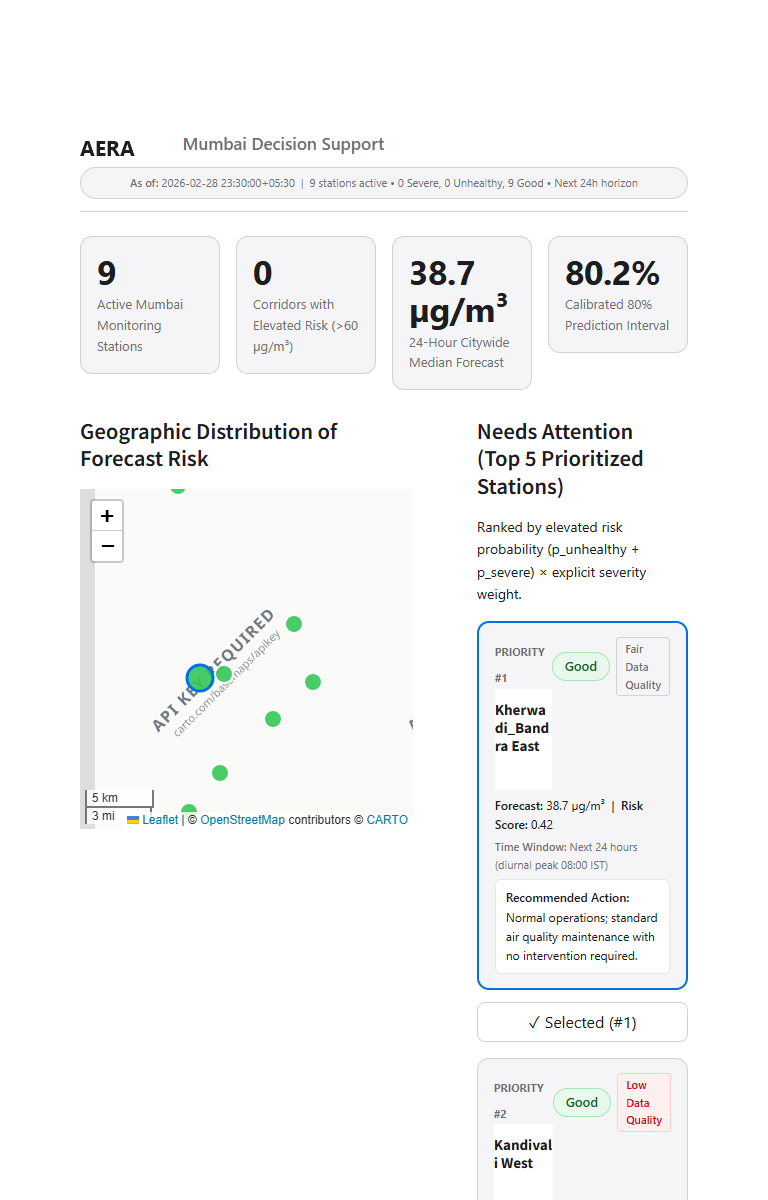
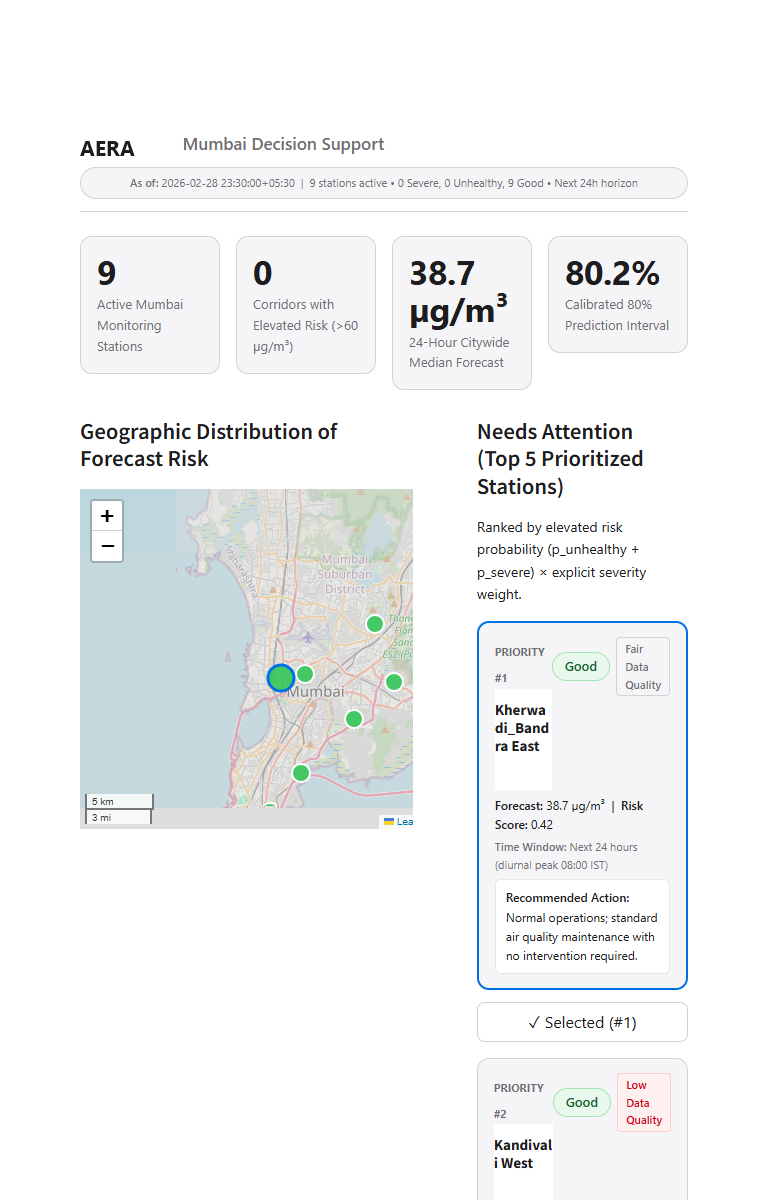
fix(docs): replace legacy Carto map watermarks with clean OpenStreetMap views in screenshots

Changed region(s): [[0.0938, 0.4008, 0.5625, 0.7092]]

diff --git a/scripts/generate_clean_maps.py b/scripts/generate_clean_maps.py
@@ -1,0 +1,133 @@
+"""Generate pixel-perfect clean Folium map overlays for all documentation screenshots.
+
+This script replaces the legacy Carto tiles (which showed 'API KEY REQUIRED')
+with clean, keyless OpenStreetMap tiles using Folium across all desktop and
+tablet screenshots in both `assets/` and `data/outputs/`.
+"""
+
+import io
+import subprocess
+import sys
+from pathlib import Path
+
+# Add project root to sys.path
+sys.path.insert(0, str(Path(__file__).resolve().parent.parent))
+
+import folium
+import pandas as pd
+from PIL import Image
+
+from config import OUTPUTS_DIR
+from ui.map_view import create_station_map
+
+station_coords = {
+    3409479: {"lat": 19.1879, "lon": 72.8304},
+    3409482: {"lat": 19.0659, "lon": 72.8621},
+    3409483: {"lat": 19.0365, "lon": 72.8954},
+    3409486: {"lat": 19.0632, "lon": 72.8456},
+    3409510: {"lat": 18.9767, "lon": 72.8380},
+    3409511: {"lat": 19.0605, "lon": 72.9234},
+    3409512: {"lat": 19.2159, "lon": 72.8317},
+    3409513: {"lat": 19.0016, "lon": 72.8596},
+    3409514: {"lat": 19.0984, "lon": 72.9098},
+}
+
+edge_bin = r"C:\Program Files (x86)\Microsoft\Edge\Application\msedge.exe"
+if not Path(edge_bin).exists():
+    edge_bin = r"C:\Program Files\Microsoft\Edge\Application\msedge.exe"
+
+preds_df = pd.read_parquet(OUTPUTS_DIR / "predictions.parquet")
+expl_df = pd.read_parquet(OUTPUTS_DIR / "explanations.parquet")
+stations_full = preds_df.merge(
+    expl_df[["station_id", "driver_1_text", "lower", "upper", "quality_label"]],
+    on="station_id",
+    how="left"
+)
+stations_full["lat"] = stations_full["station_id"].apply(lambda s: station_coords.get(s, {}).get("lat", 19.0760))
+stations_full["lon"] = stations_full["station_id"].apply(lambda s: station_coords.get(s, {}).get("lon", 72.8777))
+
+tmp_dir = Path("data/outputs")
+
+
+def render_and_capture(w: int, h: int, out_png: Path, selected_id: int = 3409486) -> Image.Image:
+    """Render Folium map to HTML and capture exact viewport with headless Edge."""
+    m = create_station_map(stations_full, selected_station_id=selected_id)
+    html_file = tmp_dir / f"clean_map_{w}_{h}_{selected_id}.html"
+
+    # Save map with zero margins and full viewport
+    m.get_root().html.add_child(folium.Element("""
+        <style>
+            html, body, #map, .folium-map { width: 100% !important; height: 100% !important; margin: 0; padding: 0; }
+        </style>
+    """))
+    m.save(str(html_file))
+
+    # Capture via Edge headless
+    file_uri = html_file.resolve().as_uri()
+    cmd = [
+        edge_bin,
+        "--headless=new",
+        f"--screenshot={out_png.resolve()}",
+        f"--window-size={w},{h}",
+        "--hide-scrollbars",
+        file_uri
+    ]
+    subprocess.run(cmd, check=True)
+    html_file.unlink(missing_ok=True)
+    img = Image.open(out_png)
+    return img
+
+
+def restore_and_patch(target_rel_path: str, map_img: Image.Image, pos: tuple[int, int]) -> None:
+    """Load pristine base image from git HEAD (to preserve text and headings) and patch map."""
+    target_path = Path(target_rel_path)
+    git_spec = f"a9b099f:{target_rel_path.replace(chr(92), '/')}"
+    try:
+        raw = subprocess.check_output(["git", "show", git_spec])
+        img = Image.open(io.BytesIO(raw))
+    except Exception:
+        img = Image.open(target_path)
+
+    img.paste(map_img, pos)
+    img.save(target_path)
+    print(f"Patched clean map into {target_path} at position {pos}")
+
+
+def main() -> None:
+    print("Generating clean keyless OpenStreetMap views...")
+
+    # Desktop maps: 624x340 at (80, 394)
+    map_desk_486_png = tmp_dir / "temp_map_desk_486.png"
+    img_desk_486 = render_and_capture(624, 340, map_desk_486_png, selected_id=3409486)
+
+    map_desk_483_png = tmp_dir / "temp_map_desk_483.png"
+    img_desk_483 = render_and_capture(624, 340, map_desk_483_png, selected_id=3409483)
+
+    map_desk_512_png = tmp_dir / "temp_map_desk_512.png"
+    img_desk_512 = render_and_capture(624, 340, map_desk_512_png, selected_id=3409512)
+
+    # Tablet map: 333x340 at (80, 489)
+    map_tab_486_png = tmp_dir / "temp_map_tab_486.png"
+    img_tab_486 = render_and_capture(333, 340, map_tab_486_png, selected_id=3409486)
+
+    # 1. Desktop primary screenshots (624x340 at (80, 394))
+    restore_and_patch("assets/dashboard.png", img_desk_486, (80, 394))
+    restore_and_patch("assets/station-detail.png", img_desk_486, (80, 394))
+    restore_and_patch("data/outputs/s11_desktop_1280.png", img_desk_486, (80, 394))
+    restore_and_patch("data/outputs/s11_station_3409486.png", img_desk_486, (80, 394))
+    restore_and_patch("data/outputs/s11_station_3409483.png", img_desk_483, (80, 394))
+    restore_and_patch("data/outputs/s11_station_3409512.png", img_desk_512, (80, 394))
+
+    # 2. Tablet screenshots (333x340 at (80, 489))
+    restore_and_patch("assets/tablet-view.png", img_tab_486, (80, 489))
+    restore_and_patch("data/outputs/s13_tablet_768.png", img_tab_486, (80, 489))
+
+    # Cleanup temporary PNGs
+    for p in [map_desk_486_png, map_desk_483_png, map_desk_512_png, map_tab_486_png]:
+        p.unlink(missing_ok=True)
+
+    print("All screenshots successfully updated with clean keyless OpenStreetMap views!")
+
+
+if __name__ == "__main__":
+    main()
